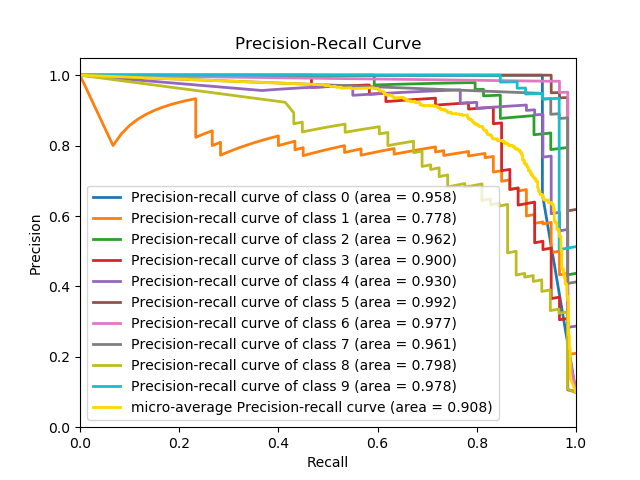
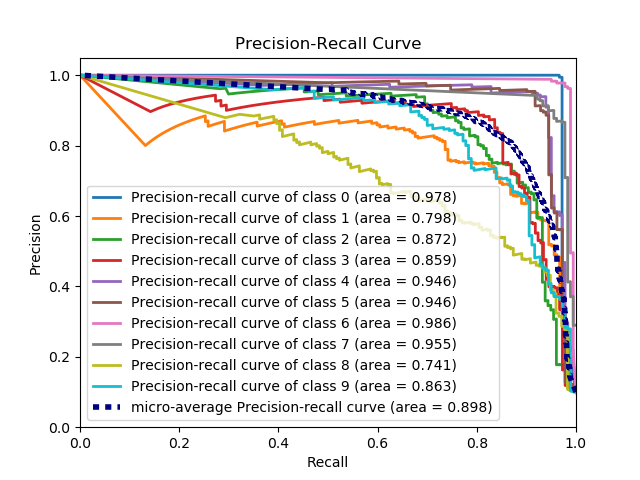
Precision recall add curves argument (#19)
* add curves to plot_precision_recall_curve and unit tests

diff --git a/scikitplot/plotters.py b/scikitplot/plotters.py
@@ -105,8 +105,9 @@ def plot_confusion_matrix(y_true, y_pred, title=None, normalize=False, ax=None, 
 
     return ax
 
-def plot_roc_curve(y_true, y_probas, title='ROC Curves', curves=['micro','macro','each_class'], 
-		   ax=None, figsize=None, title_fontsize="large", text_fontsize="medium"):
+
+def plot_roc_curve(y_true, y_probas, title='ROC Curves', curves=('micro', 'macro', 'each_class'),
+                   ax=None, figsize=None, title_fontsize="large", text_fontsize="medium"):
     """Generates the ROC curves for a set of ground truth labels and classifier probability predictions.
 
     Args:
@@ -117,10 +118,10 @@ def plot_roc_curve(y_true, y_probas, title='ROC Curves', curves=['micro','macro'
             Prediction probabilities for each class returned by a classifier.
 
         title (string, optional): Title of the generated plot. Defaults to "ROC Curves".
-	
-	curves (array-like): A listing of which curves should be plotted on the 
-+           resulting plot. Defaults to `["micro", "macro", "each_class"]`
-+           i.e. "micro" for micro-averaged curve, "macro" for macro-averaged curve
+
+        curves (array-like): A listing of which curves should be plotted on the
+            resulting plot. Defaults to `("micro", "macro", "each_class")`
+            i.e. "micro" for micro-averaged curve, "macro" for macro-averaged curve
 
         ax (:class:`matplotlib.axes.Axes`, optional): The axes upon which to plot
             the learning curve. If None, the plot is drawn on a new set of axes.
@@ -150,10 +151,10 @@ def plot_roc_curve(y_true, y_probas, title='ROC Curves', curves=['micro','macro'
            :align: center
            :alt: ROC Curves
     """
-	
+
     if 'micro' not in curves and 'macro' not in curves and 'each_class' not in curves:
-	    raise ValueError('Invalid argument for curves as it only takes "micro", "macro", or "each_class"')
-	
+        raise ValueError('Invalid argument for curves as it only takes "micro", "macro", or "each_class"')
+
     classes = np.unique(y_true)
     probas = y_probas
     
@@ -305,7 +306,8 @@ def plot_ks_statistic(y_true, y_probas, title='KS Statistic Plot', ax=None, figs
     return ax
 
 
-def plot_precision_recall_curve(y_true, y_probas, title='Precision-Recall Curve', ax=None,
+def plot_precision_recall_curve(y_true, y_probas, title='Precision-Recall Curve',
+                                curves=('micro', 'each_class'), ax=None,
                                 figsize=None, title_fontsize="large", text_fontsize="medium"):
     """Generates the Precision Recall Curve for a set of ground truth labels and classifier probability predictions.
 
@@ -315,6 +317,10 @@ def plot_precision_recall_curve(y_true, y_probas, title='Precision-Recall Curve'
 
         y_probas (array-like, shape (n_samples, n_classes)):
             Prediction probabilities for each class returned by a classifier.
+
+        curves (array-like): A listing of which curves should be plotted on the
+            resulting plot. Defaults to `("micro", "each_class")`
+            i.e. "micro" for micro-averaged curve
 
         ax (:class:`matplotlib.axes.Axes`, optional): The axes upon which to plot
             the learning curve. If None, the plot is drawn on a new set of axes.
@@ -347,6 +353,9 @@ def plot_precision_recall_curve(y_true, y_probas, title='Precision-Recall Curve'
     classes = np.unique(y_true)
     probas = y_probas
 
+    if 'micro' not in curves and 'each_class' not in curves:
+        raise ValueError('Invalid argument for curves as it only takes "micro" or "each_class"')
+
     # Compute Precision-Recall curve and area for each class
     precision = dict()
     recall = dict()
@@ -377,13 +386,18 @@ def plot_precision_recall_curve(y_true, y_probas, title='Precision-Recall Curve'
         fig, ax = plt.subplots(1, 1, figsize=figsize)
 
     ax.set_title(title, fontsize=title_fontsize)
-    for i in range(len(classes)):
-        ax.plot(recall[i], precision[i], lw=2,
-                label='Precision-recall curve of class {0} '
-                      '(area = {1:0.3f})'.format(classes[i], average_precision[i]))
-    ax.plot(recall[micro_key], precision[micro_key], lw=2, color='gold',
-            label='micro-average Precision-recall curve '
-                  '(area = {0:0.3f})'.format(average_precision[micro_key]))
+
+    if 'each_class' in curves:
+        for i in range(len(classes)):
+            ax.plot(recall[i], precision[i], lw=2,
+                    label='Precision-recall curve of class {0} '
+                          '(area = {1:0.3f})'.format(classes[i], average_precision[i]))
+
+    if 'micro' in curves:
+        ax.plot(recall[micro_key], precision[micro_key],
+                label='micro-average Precision-recall curve '
+                      '(area = {0:0.3f})'.format(average_precision[micro_key]),
+                color='navy', linestyle=':', linewidth=4)
 
     ax.set_xlim([0.0, 1.0])
     ax.set_ylim([0.0, 1.05])

diff --git a/scikitplot/classifiers.py b/scikitplot/classifiers.py
@@ -160,7 +160,7 @@ def plot_confusion_matrix(clf, X, y, title=None, normalize=False, do_cv=True, cv
 
 
 def plot_roc_curve(clf, X, y, title='ROC Curves', do_cv=True, cv=None,
-                   shuffle=True, random_state=None, curves=['micro', 'macro', 'each_class'], 
+                   shuffle=True, random_state=None, curves=('micro', 'macro', 'each_class'),
                    ax=None, figsize=None, title_fontsize="large", text_fontsize="medium"):
     """Generates the ROC curves for a given classifier and dataset.
 
@@ -201,7 +201,7 @@ def plot_roc_curve(clf, X, y, title='ROC Curves', do_cv=True, cv=None,
             for random sampling.
             
         curves (array-like): A listing of which curves should be plotted on the 
-            resulting plot. Defaults to `["micro", "macro", "each_class"]`
+            resulting plot. Defaults to `("micro", "macro", "each_class")`
             i.e. "micro" for micro-averaged curve, "macro" for macro-averaged curve
 
         ax (:class:`matplotlib.axes.Axes`, optional): The axes upon which to plot
@@ -372,8 +372,8 @@ def plot_ks_statistic(clf, X, y, title='KS Statistic Plot', do_cv=True, cv=None,
 
 
 def plot_precision_recall_curve(clf, X, y, title='Precision-Recall Curve', do_cv=True,
-                                cv=None, shuffle=True, random_state=None, ax=None,
-                                figsize=None, title_fontsize="large", text_fontsize="medium"):
+                                cv=None, shuffle=True, random_state=None, curves=('micro', 'each_class'),
+                                ax=None, figsize=None, title_fontsize="large", text_fontsize="medium"):
     """Generates the Precision-Recall curve for a given classifier and dataset.
 
     Args:
@@ -411,6 +411,10 @@ def plot_precision_recall_curve(clf, X, y, title='Precision-Recall Curve', do_cv
 
         random_state (int :class:`RandomState`): Pseudo-random number generator state used
             for random sampling.
+
+        curves (array-like): A listing of which curves should be plotted on the
+            resulting plot. Defaults to `("micro", "each_class")`
+            i.e. "micro" for micro-averaged curve
 
         ax (:class:`matplotlib.axes.Axes`, optional): The axes upon which to plot
             the learning curve. If None, the plot is drawn on a new set of axes.
@@ -470,7 +474,7 @@ def plot_precision_recall_curve(clf, X, y, title='Precision-Recall Curve', do_cv
         y_true = np.concatenate(trues_list)
 
     # Compute Precision-Recall curve and area for each class
-    ax = plotters.plot_precision_recall_curve(y_true, probas, title=title, ax=ax,
+    ax = plotters.plot_precision_recall_curve(y_true, probas, title=title, curves=curves, ax=ax,
                                               figsize=figsize, title_fontsize=title_fontsize,
                                               text_fontsize=text_fontsize)
     return ax

diff --git a/scikitplot/tests/test_classifiers.py b/scikitplot/tests/test_classifiers.py
@@ -266,6 +266,7 @@ class TestPlotROCCurve(unittest.TestCase):
         self.assertRaises(ValueError, clf.plot_roc_curve, self.X, self.y,
                           curves='zzz')
 
+
 class TestPlotKSStatistic(unittest.TestCase):
     def setUp(self):
         np.random.seed(0)
@@ -380,6 +381,21 @@ class TestPlotPrecisionRecall(unittest.TestCase):
         assert ax is not out_ax
         out_ax = clf.plot_precision_recall_curve(self.X, self.y, ax=ax)
         assert ax is out_ax
+
+    def test_curve_diffs(self):
+        np.random.seed(0)
+        clf = LogisticRegression()
+        scikitplot.classifier_factory(clf)
+        ax_micro = clf.plot_precision_recall_curve(self.X, self.y, curves='micro')
+        ax_class = clf.plot_precision_recall_curve(self.X, self.y, curves='each_class')
+        self.assertNotEqual(ax_micro, ax_class)
+
+    def test_invalid_curve_arg(self):
+        np.random.seed(0)
+        clf = LogisticRegression()
+        scikitplot.classifier_factory(clf)
+        self.assertRaises(ValueError, clf.plot_precision_recall_curve, self.X, self.y,
+                          curves='zzz')
 
 
 class TestFeatureImportances(unittest.TestCase):
